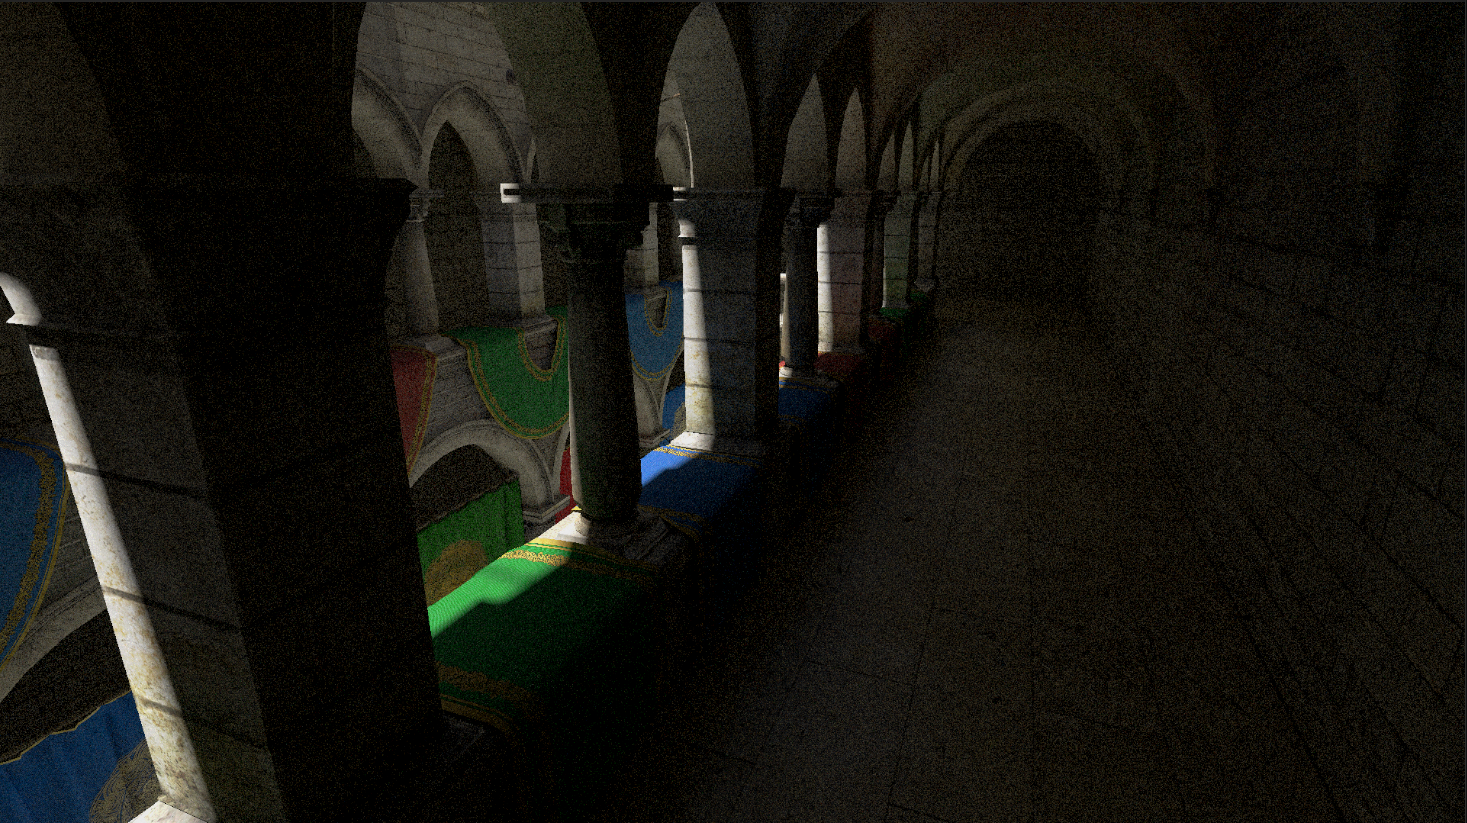
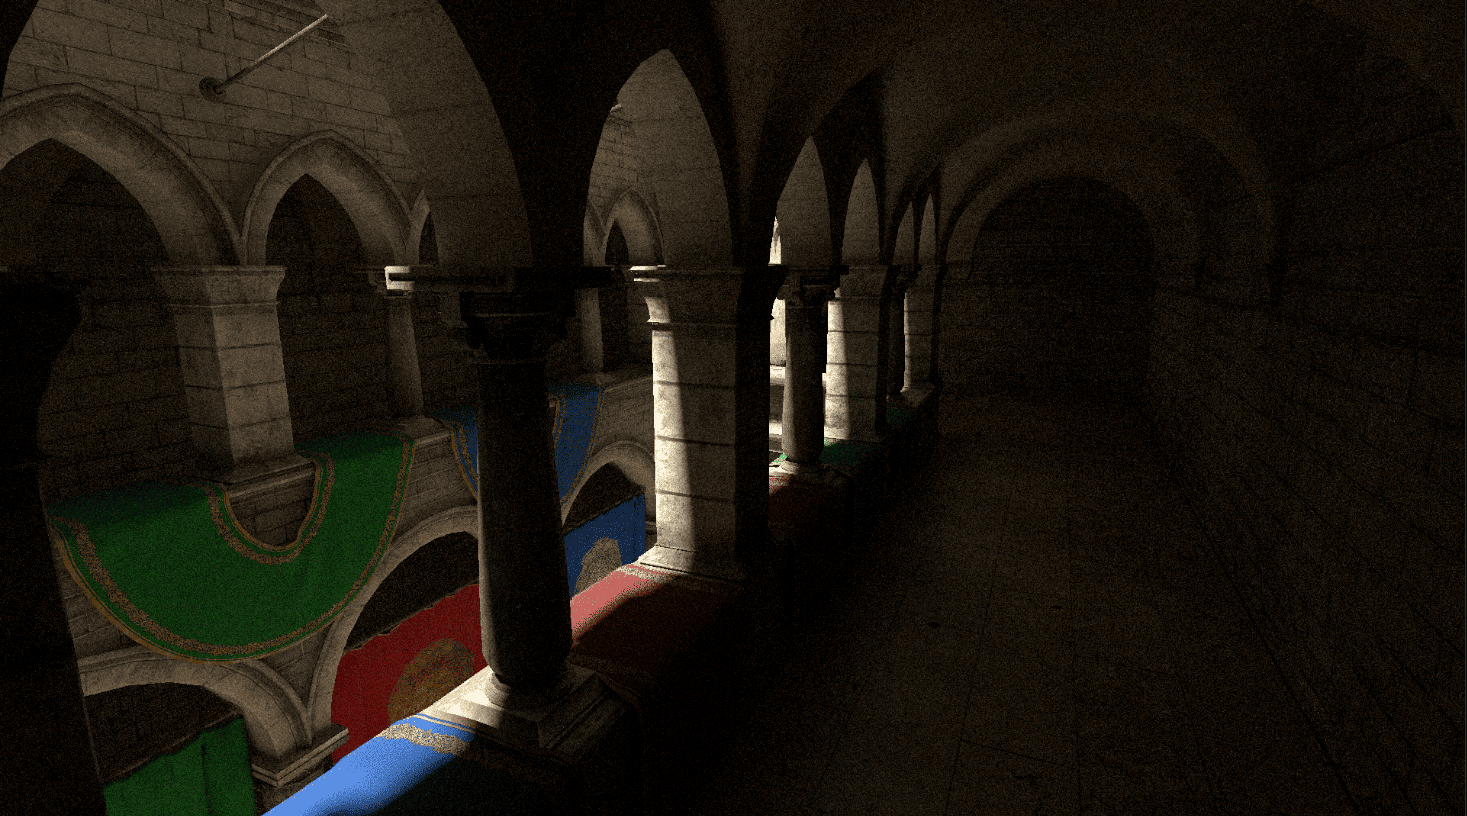
修复降噪累积导致变灰的问题

diff --git a/Assets/Scripts/Tracing.cs b/Assets/Scripts/Tracing.cs
@@ -42,7 +42,6 @@ public class Tracing : MonoBehaviour
     private int sampleCount = 0;
     private Material _addMaterial;
     
-    private Material collectMaterial;
     private RenderTexture frameConverged;
     
     private readonly int dispatchGroupX = 32;
@@ -53,8 +52,8 @@ public class Tracing : MonoBehaviour
 
     private void Awake()
     {
-        if (collectMaterial == null)
-            collectMaterial = new Material(Shader.Find("Hidden/Collect"));
+        if (_addMaterial == null)
+            _addMaterial = new Material(Shader.Find("Hidden/AddShader"));
     }
 
     private void Start()
@@ -78,6 +77,8 @@ public class Tracing : MonoBehaviour
             if (target != null) target.Release();
             target = new RenderTexture(Screen.width, Screen.height, 0, RenderTextureFormat.ARGBFloat,
                 RenderTextureReadWrite.Linear);
+            target.filterMode = FilterMode.Point;
+            target.wrapMode   = TextureWrapMode.Clamp;
             target.enableRandomWrite = true;
             target.Create();
         }
@@ -88,6 +89,8 @@ public class Tracing : MonoBehaviour
             if (frameConverged != null)
                 frameConverged.Release();
             frameConverged = new RenderTexture(Screen.width, Screen.height, 0, RenderTextureFormat.ARGBFloat, RenderTextureReadWrite.Linear);
+            frameConverged.filterMode = FilterMode.Point;
+            frameConverged.wrapMode   = TextureWrapMode.Clamp;
             frameConverged.enableRandomWrite = true;
             frameConverged.Create();
         }
@@ -105,16 +108,12 @@ public class Tracing : MonoBehaviour
         dispatchGroupYFull = Mathf.CeilToInt(Screen.height / 8.0f);
         tracingShader.SetTexture(0, "_Result", target);
         tracingShader.Dispatch(0, dispatchGroupXFull, dispatchGroupYFull, 1);
-        // Graphics.Blit(target, frameConverged, collectMaterial);
-        // Graphics.Blit(frameConverged, destination);
         
-        if (_addMaterial == null)
-            _addMaterial = new Material(Shader.Find("Hidden/AddShader"));
-
         if (Denoise)
         {
             _addMaterial.SetFloat("_Sample", sampleCount);
-            Graphics.Blit(target, destination, _addMaterial);
+            Graphics.Blit(target, frameConverged, _addMaterial);
+            Graphics.Blit(frameConverged, destination);
         }
         else
         {
